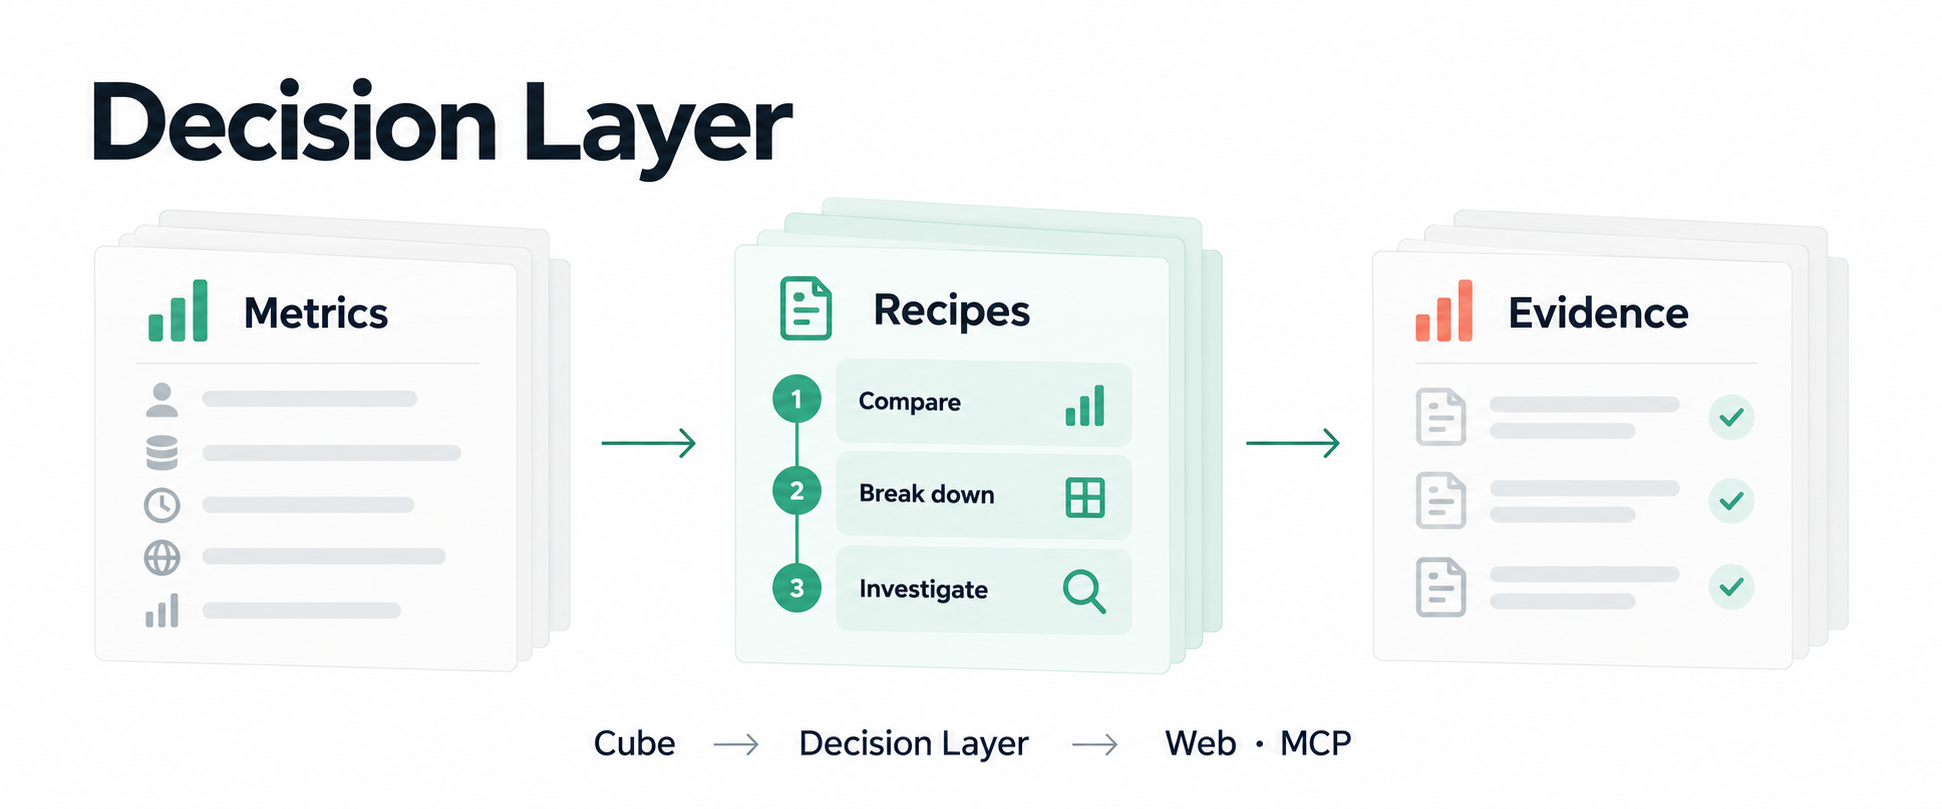
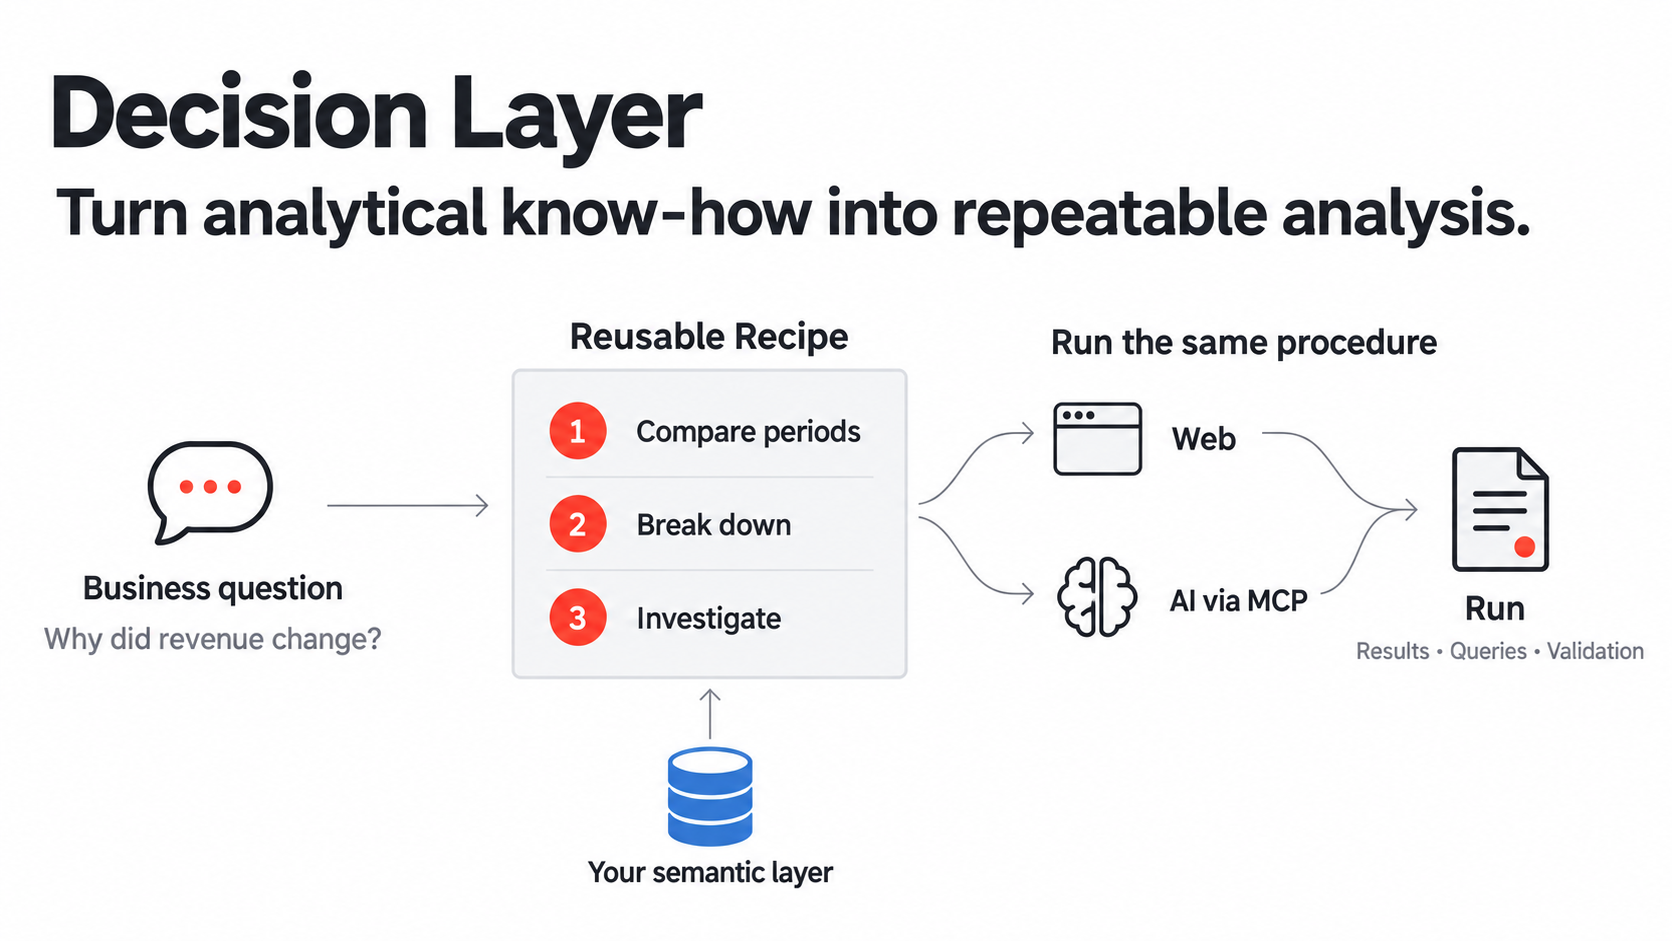
docs: simplify provider-neutral README and refresh product illustration

diff --git a/README.ko.md b/README.ko.md
@@ -4,13 +4,13 @@
 
 **팀의 분석 노하우를 반복해서 실행합니다.**
 
-Decision Layer는 semantic layer의 지표를 분석 기능인 **Method**와 재사용 가능한 절차인 **Recipe**에 연결합니다. 웹과 AI 도구가 같은 절차를 실행하고, 질문·결과·근거는 **Run**에 남습니다. 지표의 정의와 데이터 접근 권한은 Cube가 관리합니다.
+Decision Layer는 팀의 분석 노하우를 재사용 가능한 **Recipe**로 만듭니다. 웹과 AI 도구는 semantic layer의 지표와 등록된 분석 방법(**Method**)으로 같은 절차를 실행하고, 각 실행(**Run**)에 질문·결과·근거를 남깁니다.
 
-![지표, 분석 방법, 실행 기록의 연결](docs/assets/decision-layer-overview.png)
+![비즈니스 질문을 Recipe로 분석하고 웹과 AI에서 같은 절차와 실행 근거를 재사용합니다](docs/assets/decision-layer-overview.png)
 
 ## 시작하기
 
-Docker와 Compose가 필요합니다. 예제를 실행하면 PostgreSQL, Cube, API, 웹이 함께 켜지고 Recipe는 빈 상태에서 시작합니다.
+Docker Compose로 샘플 데이터와 로컬 실행 환경을 함께 시작합니다.
 
 ```bash
 git clone https://github.com/haechangcho/decision-layer.git
@@ -23,7 +23,7 @@ docker compose up -d --build --wait
 ## 다음 단계
 
 - [Claude·Codex에 MCP 연결](docs/guides/mcp.md)
-- [기존 Cube 연결](docs/guides/cube.md)
+- [Semantic layer 연결](docs/guides/cube.md)
 - [샘플 데이터와 환경 확인](examples/complete-journey/README.ko.md)
 - [개발·테스트·Method 기여](docs/README.md)
 

diff --git a/README.md b/README.md
@@ -4,13 +4,13 @@
 
 **Make your team's analytical knowledge executable.**
 
-Decision Layer connects governed metrics to analytical **Methods** and reusable **Recipes**. Web and AI clients run the same procedures; every **Run** keeps the question, result and evidence. Cube owns metric definitions and data access.
+Decision Layer turns your team's analytical knowledge into reusable **Recipes**. Web and AI clients execute the same procedures using semantic metrics and registered analytical **Methods**. Every **Run** keeps the question, results and evidence.
 
-![A semantic metric, analysis methods and a recorded run](docs/assets/decision-layer-overview.png)
+![A business question follows a reusable Recipe, executed through Web or AI with recorded evidence](docs/assets/decision-layer-overview.png)
 
 ## Try it
 
-Docker with Compose is required. The sample starts PostgreSQL, Cube, the API and Web with an empty Recipe library.
+Start the sample data and local application with Docker Compose.
 
 ```bash
 git clone https://github.com/haechangcho/decision-layer.git
@@ -23,7 +23,7 @@ Open [localhost:3000](http://localhost:3000). The first start downloads the samp
 ## Go further
 
 - [Connect Claude or Codex through MCP](docs/guides/mcp.md)
-- [Connect your own Cube](docs/guides/cube.md)
+- [Connect your semantic layer](docs/guides/cube.md)
 - [Explore the sample and its data](examples/complete-journey/README.md)
 - [Develop, test or add a Method](docs/README.md)
 
